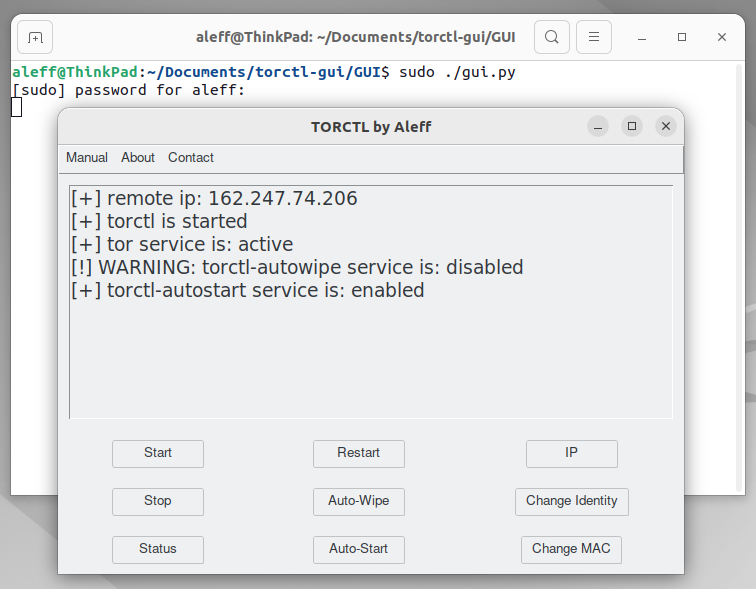
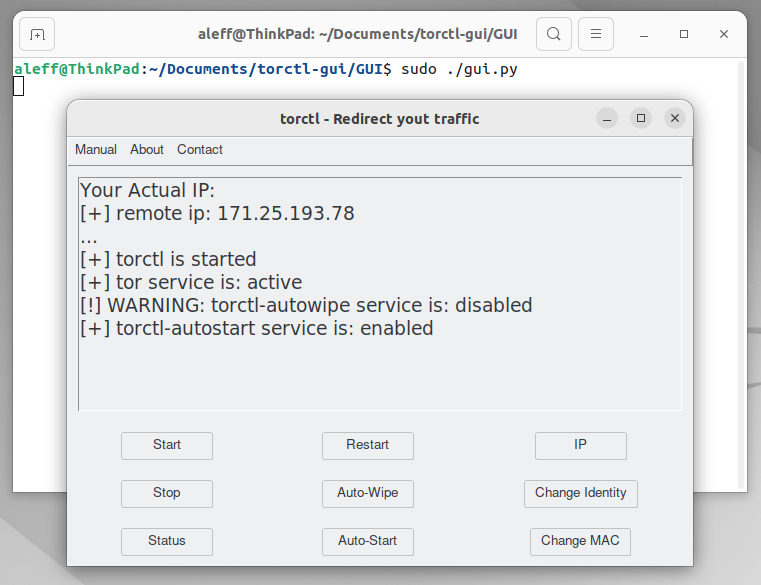
New Photo

diff --git a/GUI/gui.py b/GUI/gui.py
@@ -8,11 +8,6 @@ import os
 import re
 
 
-# Root permissions check
-if os.geteuid() != 0:
-    messagebox.showinfo("Popup", "You must run the app with sudo permissions.")
-    exit()
-
 MAN = """--==[ torctl.sh by blackarch.org ]==--
 
 Usage: torctl.sh COMMAND
@@ -71,46 +66,46 @@ def get_update_lines(output: str):
 
 def run_a_command(description:str, command: str):
     info_panel.configure(state="normal")
-    info_panel.insert(tk.END, f"\n\n{description}\n")
+    info_panel.insert(tk.END, f"{description}\n")
     get_update_lines(subprocess.check_output(f"/usr/local/bin/torctl {command}", shell=True))
     info_panel.configure(state="disabled")
 
 def initial_state():
-    run_a_command("Running...", "ip")
+    run_a_command("Your Actual IP: ", "ip")
     run_a_command("...", "status")
 
 def start():
-    run_a_command("START", "start")
+    run_a_command("\nSTART", "start")
 
 def stop():
-    run_a_command("STOP", "stop")
+    run_a_command("\nSTOP", "stop")
 
 def status():
-    run_a_command("STATUS", "status")
+    run_a_command("\nSTATUS", "status")
 
 def restart():
-    run_a_command("RESTART", "restart")
+    run_a_command("\nRESTART", "restart")
 
 def autowipe():
-    run_a_command("AUTO WIPE", "autowipe")
+    run_a_command("\nAUTO WIPE", "autowipe")
 
 def autostart():
-    run_a_command("AUTO START", "autostart")
+    run_a_command("\nAUTO START", "autostart")
 
 def ip():
-    run_a_command("WHAT IS MY IP?", "ip")
+    run_a_command("\nYour Actual IP: ", "ip")
 
 def chngid():
-    run_a_command("CHANGE TOR IDENTITY", "chngid")
+    run_a_command("\nCHANGE TOR IDENTITY", "chngid")
 
 def chngmac():
-    run_a_command("CHANGE MAC", "chngmac")
+    run_a_command("\nCHANGE MAC", "chngmac")
 
 def rvmac():
-    run_a_command("REVERD MAC", "rvmac")
+    run_a_command("\nREVERD MAC", "rvmac")
 
 def version():
-    run_a_command("VERSION", "version")
+    run_a_command("\nVERSION", "version")
 
 def man():
     messagebox.showinfo("Popup", MAN)
